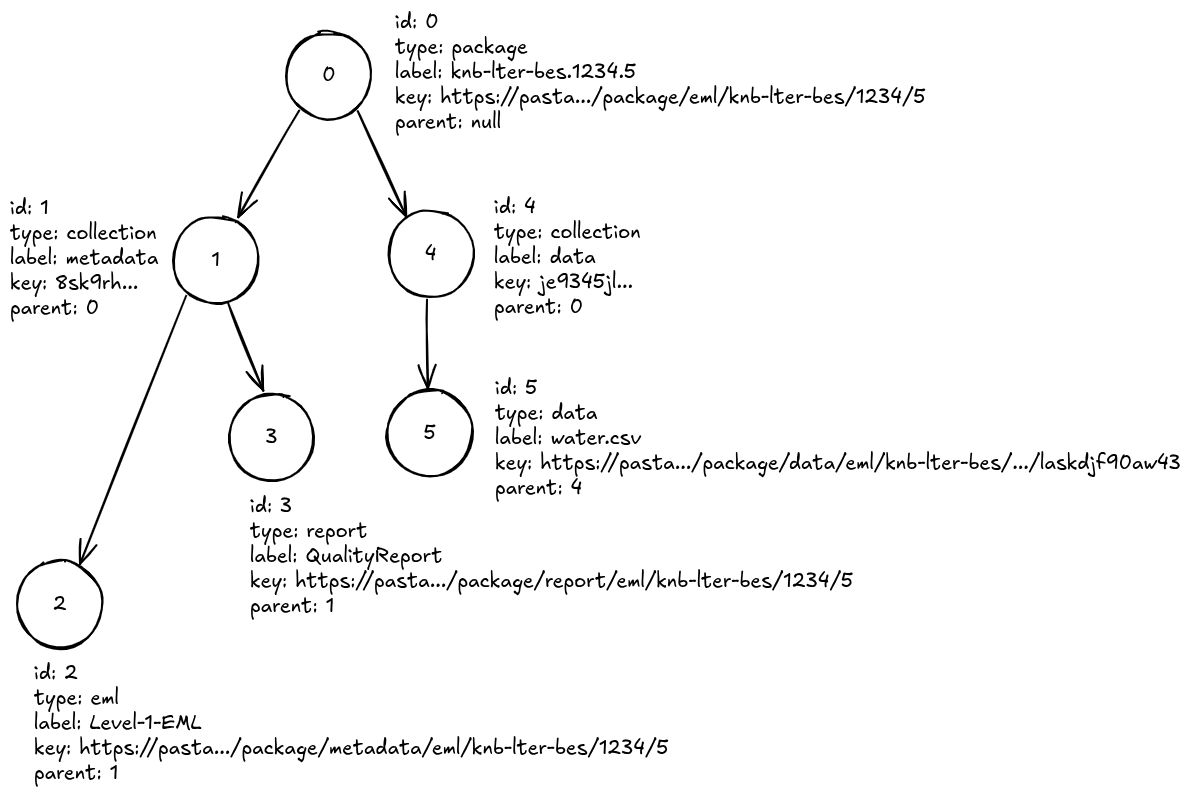
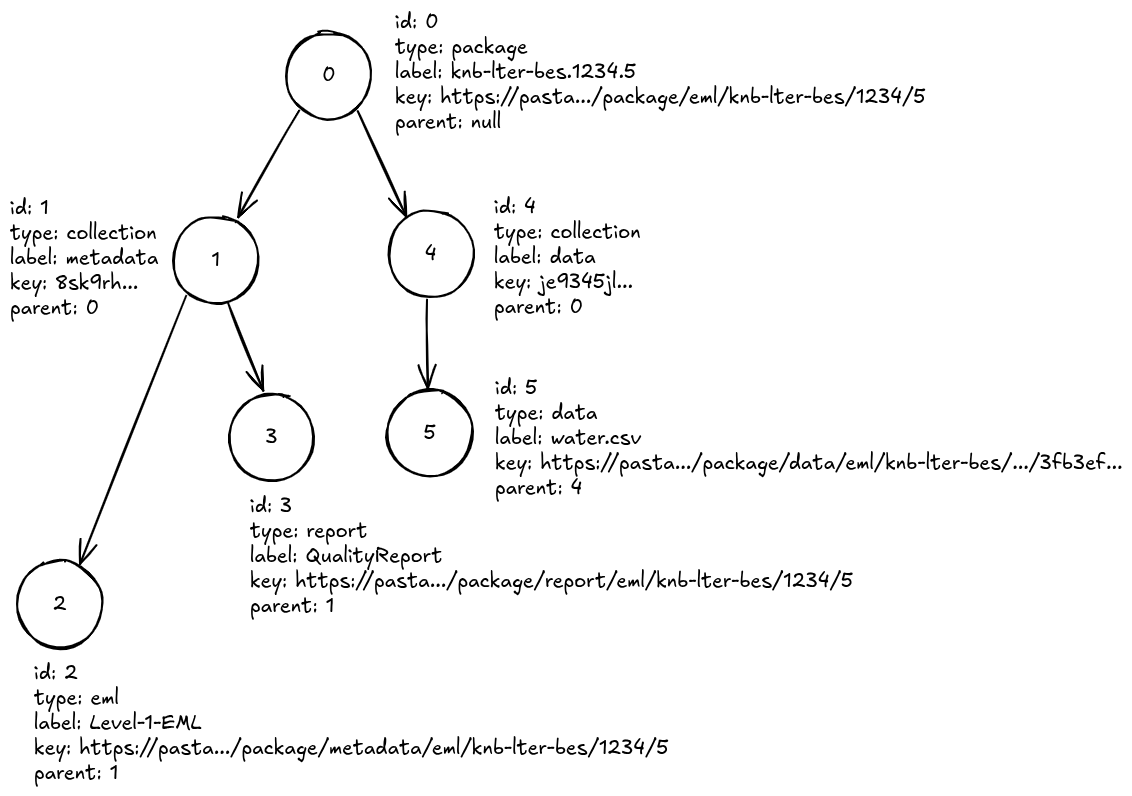
Update PEP-9

diff --git a/peps/pep-9.md b/peps/pep-9.md
@@ -88,32 +88,37 @@ The ACR registry will be implemented as RDBMS tables with the following schema (
 
 **Figure 3:** Authorization service ACR registry table schema.
 
-The ACR Registry will store ACRs for all applications in the EDI ecosystem. We will use a structure with *resources*, *rules*, and *principals*. A resource may be a child of another resource, forming a directed acyclic graph (DAG) where children may have only one parent, and may contain zero to many rules. Each rule provides *read*, *write* or *changePermission* privileges to the principal associated with the ACR. The principal references either a user profile or a group. A user profile can be a regular user or a system level user, such as the "public" user; both regular users and system users will have a unique EDI-ID.
+The ACR Registry will store ACRs for all application resources in the EDI ecosystem. We will use a structure with *resources*, *rules*, and *principals*:
+
+The principal references either a user profile or a group. A user profile can be a regular user or a system level user, such as the "public" user; both regular users and system users will have a unique EDI-ID.
 
 #### Resource
+
+A resource may be singular or consist of a heiarchical set (as for data packages) where a resource object is the child of another resource, forming a directed acyclic graph (DAG) where children may have only one parent. Resources have zero to many access rules, each rule containing a permission and principal, the subject of the rule. Resources are identified by a unique key provided by the application, along with a human-readable label (the label does not have to be unique).
 
 - `resource.id` - Row ID of the resource (referenced in rules).
 - `resource.parent_id` - An optional reference to a parent resource, making this resource a child of the parent resource.
 - `resource.key` - A unique system identifier for the resource.
 - `resource.label` - A human-readable name for the resource.
 - `resource.type` - The resource type.
-- `resource.created_date` - The date and time the resource was created.
 
 #### Rule
+
+ Each rule uniquely maps a resource to a principal subject (i.e., user profile or group) and a permission (*read*, *write* or *changePermission*), defining how the principal can access the resource.
 
 - `rule.id` - Row ID of the rule.
 - `rule.resource_id` - A reference to the resource to which the rule applies.
 - `rule.principal_id` - A reference to the user profile or group to which the rule is granted.
-- `rule.level` - The access level granted by this rule (enum of `read`, `write` or `changePermission`).
+- `rule.permission` - The access permission granted by this rule (enum of `read`, `write` or `changePermission`).
 - `rule.granted_date` - The grant date and time of the rule.
 
 #### Principal
 
 - `principal.id` - Row ID of the principal (referenced in rules).
-- `principal.profile_or_group_id` - A reference to a profile or group.
-- `principal.type_enum` - The principal class (enum of `PROFILE` or `GROUP`) of the principal.
+- `principal.subject_id` - A reference to the subject, either a profile or group.
+- `principal.subject_type` - The principal subject type (enum of `PROFILE` or `GROUP`).
 
-For example, if we are tracking permissions for a data package with metadata and data entities, we would set up an inverted tree of resources (i.e., DAG). The `resource.label` of the root resource might be `knb-lter-bes.1234.5`, and the `resource.type` would be `package`. To this parent, we would add two child resources of `resource.type` `collection` and with labels `data` and `metadata`. These child resources would then have their own children, representing the individual data and metadata entities in the package. So a resource with parent `data` might have `resource.label` of `water.csv` while the `resource.key` would be the PASTA URI `https://pasta.lternet.edu/package/data/eml/knb-lter-bes.1234.5/3fb3ef2e559fa42956b69226e9069058`. The `resource.type` would be `data`. Rules would then be linked to these resources via `rule.resource_id`. Each rule would have a `rule.principal_id` of a user profile or user group. The `rule.level` would specify the level of access granted to the principal, and would be `read`, `write` or `changePermission`. The principal would be linked to the `principal.id` of the principal table. The `principal.profile_or_group_id` would be the row ID of a row in the Profile or Group table, and `principal.type_enum` would be `PROFILE` or `GROUP`.
+For example, if we are tracking permissions for a data package with metadata and data entities, we would set up an inverted tree (DAG) of resources (Figure 4). The `resource.label` of the root resource might be `knb-lter-bes.1234.5`, and the `resource.type` would be `package`. To this parent, we would add two child resources of `resource.type` `collection` and with labels `data` and `metadata`. These child resources would then have their own children, representing the individual data and metadata entities in the package. So a resource with parent `data` might have `resource.label` of `water.csv` while the `resource.key` would be the PASTA URI `https://pasta.lternet.edu/package/data/eml/knb-lter-bes.1234.5/3fb3ef2e559fa42956b69226e9069058`. The `resource.type` would be `data`. Rules would then be linked to these resources via `rule.resource_id`. Each rule would have a `rule.principal_id` of a user profile or user group. The `rule.permission` would specify the permission of access granted to the principal, and would be `read`, `write` or `changePermission`. The principal would be linked to the `principal.id` of the principal table. The `principal.subject_id` would be the row ID of a row in the Profile or Group table, and `principal.subject_type` would be `PROFILE` or `GROUP`.
 
 ![](./images/pep9-resource_tree.png)
 
